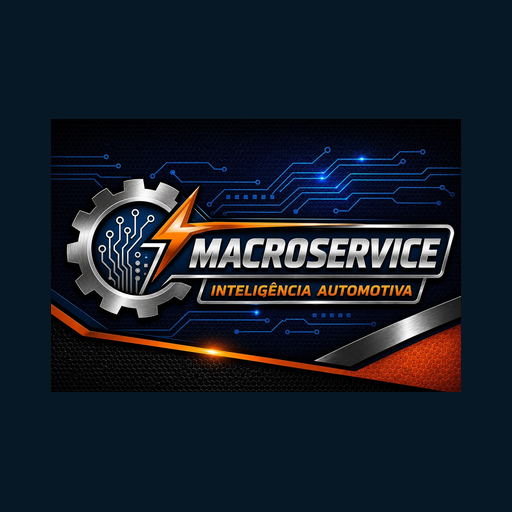
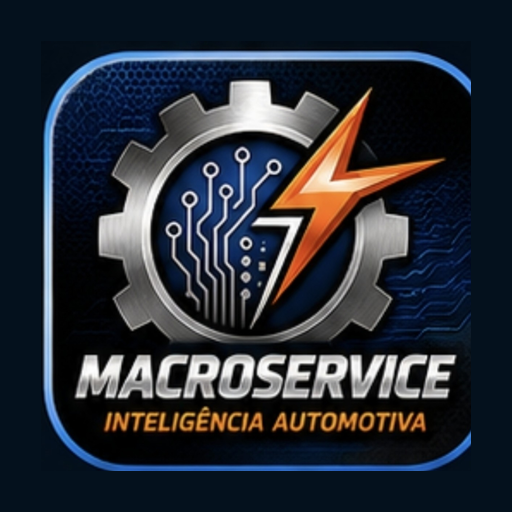
Add files via upload

diff --git a/app.js b/app.js
@@ -27,6 +27,10 @@ const SLOTS = ["08:00","09:00","10:00","11:00","13:00","14:00","15:00","16:00"];
 function getSession(){ return store.get("macro_session", null); }
 function setSession(s){ store.set("macro_session", s); }
 function clearSession(){ localStorage.removeItem("macro_session"); }
+function getRememberedAuth(){ return store.get("macro_auth_remember", null); }
+function setRememberedAuth(v){ store.set("macro_auth_remember", v); }
+function clearRememberedAuth(){ localStorage.removeItem("macro_auth_remember"); }
+function setAuthScreenMode(active){ document.body.classList.toggle("auth-screen", !!active); }
 function showOnly(el){ [authView,homeView,moduleView].forEach(v=>v.classList.remove("active")); el.classList.add("active"); }
 
 function customServices(){ return store.get("macro_servicos_custom", []); }
@@ -45,18 +49,107 @@ function migrateLegacyData(){
   store.set("macro_catalog_migrated",true);
 }
 
-function renderAuth(tab="cliente"){
+function authFieldIcon(kind){
+  const icons={
+    user:`<svg viewBox="0 0 24 24" aria-hidden="true"><path d="M12 12a4 4 0 1 0 0-8 4 4 0 0 0 0 8Zm-7 8a7 7 0 0 1 14 0"/></svg>`,
+    lock:`<svg viewBox="0 0 24 24" aria-hidden="true"><rect x="5" y="10" width="14" height="10" rx="2"/><path d="M8 10V7a4 4 0 0 1 8 0v3"/></svg>`,
+    phone:`<svg viewBox="0 0 24 24" aria-hidden="true"><path d="M7 3h3l1 5-2 1a15 15 0 0 0 6 6l1-2 5 1v3c0 2-2 4-4 4C9 20 4 15 3 7c0-2 2-4 4-4Z"/></svg>`,
+    mail:`<svg viewBox="0 0 24 24" aria-hidden="true"><rect x="3" y="5" width="18" height="14" rx="2"/><path d="m4 7 8 6 8-6"/></svg>`
+  };
+  return icons[kind]||icons.user;
+}
+function openAuthModal(title, bodyHtml, submitLabel="Fechar", onSubmit=null){
+  document.querySelector("#authModal")?.remove();
+  const wrap=document.createElement("div");
+  wrap.id="authModal";
+  wrap.className="auth-modal-backdrop";
+  wrap.innerHTML=`<div class="auth-modal" role="dialog" aria-modal="true" aria-label="${esc(title)}"><button class="auth-modal-close" id="authModalClose" aria-label="Fechar">×</button><h3>${esc(title)}</h3><div class="auth-modal-body">${bodyHtml}</div><div class="auth-modal-actions"><button class="primary-btn" id="authModalSubmit">${esc(submitLabel)}</button></div></div>`;
+  document.body.appendChild(wrap);
+  const close=()=>wrap.remove();
+  $("#authModalClose").onclick=close;
+  wrap.addEventListener("click",e=>{if(e.target===wrap)close();});
+  $("#authModalSubmit").onclick=()=>{if(onSubmit)onSubmit(close);else close();};
+  return wrap;
+}
+function renderAuth(tab="cliente", mode="login"){
+  setAuthScreenMode(true);
   showOnly(authView);
-  authView.innerHTML=`<div class="auth-card"><h2>Bem-vindo à Macroservice</h2><p>Entre ou faça seu cadastro para continuar.</p>
-  <div class="auth-tabs"><button class="auth-tab ${tab==="cliente"?"active":""}" id="tabCliente">Cliente</button><button class="auth-tab ${tab==="admin"?"active":""}" id="tabAdmin">Administrador</button></div>
-  ${tab==="cliente"?`<div class="form-grid"><label>Nome completo<input id="cadNome" placeholder="Seu nome"></label><label>Telefone / WhatsApp<input id="cadTelefone" type="tel" placeholder="(93) 99999-9999"></label><label>Senha<input id="cadSenha" type="password" placeholder="Crie uma senha"></label><button class="primary-btn" id="cadCliente">Cadastrar e entrar</button><div class="notice">Nesta versão os dados ficam salvos neste aparelho. Para sincronização entre celulares será necessário banco online.</div></div>`:
-  `<div class="form-grid"><label>Usuário administrador<input id="adminUser" value="admin" autocomplete="username"></label><label>Senha<input id="adminPass" type="password" placeholder="Senha do administrador" autocomplete="current-password"></label><button class="primary-btn" id="entrarAdmin">Entrar como administrador</button><div class="notice">Demonstração: usuário <b>admin</b> e senha <b>macroservice2026</b>. Para uso real, mover o login para autenticação online segura.</div></div>`}</div>`;
-  $("#tabCliente").onclick=()=>renderAuth("cliente"); $("#tabAdmin").onclick=()=>renderAuth("admin");
-  if(tab==="cliente") $("#cadCliente").onclick=()=>{const nome=$("#cadNome").value.trim(),telefone=$("#cadTelefone").value.trim(),senha=$("#cadSenha").value.trim();if(!nome||!telefone||!senha)return alert("Preencha nome, telefone e senha.");const clientes=store.get("macro_clientes");let cli=clientes.find(c=>c.telefone===telefone);if(!cli){cli={id:uid(),nome,telefone,senha};clientes.push(cli);store.set("macro_clientes",clientes);}setSession({role:"cliente",id:cli.id,nome:cli.nome,telefone:cli.telefone});renderHome();};
-  else $("#entrarAdmin").onclick=()=>{if($("#adminUser").value.trim()==="admin"&&$("#adminPass").value==="macroservice2026"){setSession({role:"admin",nome:"Administrador"});renderHome();}else alert("Usuário ou senha incorretos.");};
+  const remembered=getRememberedAuth()||{};
+  const rememberedCliente=remembered.role==="cliente"?remembered:{};
+  const rememberedAdmin=remembered.role==="admin"?remembered:{};
+  const footer=`<div class="auth-brand-footer"><strong>MACROSERVICE</strong><span>Inteligência Automotiva</span><small>Juruti - PA • V5.3</small></div>`;
+  const clientLogin=`<div class="form-grid auth-form">
+    <label>Telefone ou e-mail<div class="input-icon-wrap"><span class="field-icon">${authFieldIcon("user")}</span><input id="clienteLoginId" placeholder="Usuário" value="${esc(rememberedCliente.loginId||"")}" autocomplete="username"></div></label>
+    <label>Senha<div class="input-icon-wrap"><span class="field-icon">${authFieldIcon("lock")}</span><input id="clienteSenha" type="password" placeholder="Senha" autocomplete="current-password"><button type="button" class="password-toggle" id="toggleClienteSenha" aria-label="Visualizar senha">👁</button></div></label>
+    <div class="remember-forgot"><label class="remember-line"><input id="lembrarCliente" type="checkbox" ${rememberedCliente.loginId?"checked":""}> <span>Lembrar de mim</span></label><button class="text-link" id="recuperarSenhaBtn">Esqueci minha senha</button></div>
+    <button class="primary-btn login-main-btn" id="entrarCliente">Entrar</button>
+    <div class="auth-divider"><span>ou</span></div>
+    <button class="google-btn" id="googleLoginBtn"><span class="google-g">G</span><span>Continuar com Google</span></button>
+    <button class="create-account-btn" id="irCadastro">Criar uma conta</button>
+    <div class="login-status" id="loginStatus" aria-live="polite"></div>
+  </div>`;
+  const clientSignup=`<div class="form-grid auth-form">
+    <label>Nome completo<div class="input-icon-wrap"><span class="field-icon">${authFieldIcon("user")}</span><input id="cadNome" placeholder="Nome completo" autocomplete="name"></div></label>
+    <label>Telefone / WhatsApp<div class="input-icon-wrap"><span class="field-icon">${authFieldIcon("phone")}</span><input id="cadTelefone" type="tel" placeholder="(93) 99999-9999" autocomplete="tel"></div></label>
+    <label>E-mail<div class="input-icon-wrap"><span class="field-icon">${authFieldIcon("mail")}</span><input id="cadEmail" type="email" placeholder="email@exemplo.com" autocomplete="email"></div></label>
+    <label>Senha<div class="input-icon-wrap"><span class="field-icon">${authFieldIcon("lock")}</span><input id="cadSenha" type="password" placeholder="Crie uma senha" autocomplete="new-password"><button type="button" class="password-toggle" id="toggleCadSenha" aria-label="Visualizar senha">👁</button></div></label>
+    <label>Confirmar senha<div class="input-icon-wrap"><span class="field-icon">${authFieldIcon("lock")}</span><input id="cadSenha2" type="password" placeholder="Confirme a senha" autocomplete="new-password"><button type="button" class="password-toggle" id="toggleCadSenha2" aria-label="Visualizar senha">👁</button></div></label>
+    <button class="primary-btn login-main-btn" id="cadCliente">Cadastrar e entrar</button>
+    <button class="create-account-btn" id="irLogin">Já tenho uma conta</button>
+  </div>`;
+  const adminLogin=`<div class="form-grid auth-form">
+    <label>Usuário administrador<div class="input-icon-wrap"><span class="field-icon">${authFieldIcon("user")}</span><input id="adminUser" value="${esc(rememberedAdmin.user||"admin")}" placeholder="Usuário" autocomplete="username"></div></label>
+    <label>Senha<div class="input-icon-wrap"><span class="field-icon">${authFieldIcon("lock")}</span><input id="adminPass" type="password" placeholder="Senha" autocomplete="current-password"><button type="button" class="password-toggle" id="toggleAdminSenha" aria-label="Visualizar senha">👁</button></div></label>
+    <div class="remember-forgot"><label class="remember-line"><input id="lembrarAdmin" type="checkbox" ${rememberedAdmin.user?"checked":""}> <span>Lembrar de mim</span></label><button class="text-link" id="recuperarAdminBtn">Ajuda de acesso</button></div>
+    <button class="primary-btn login-main-btn" id="entrarAdmin">Entrar</button>
+    <div class="login-status" id="loginStatus" aria-live="polite"></div>
+  </div>`;
+  authView.innerHTML=`<div class="auth-card login-shell">
+    <div class="login-hero"><img src="icon-512.png" alt="Macroservice App" class="login-hero-logo"><h2>${mode==="cadastro"?"Criar conta":"Login"}</h2><p>Seu assistente de oficina</p></div>
+    <div class="auth-tabs"><button class="auth-tab ${tab==="cliente"?"active":""}" id="tabCliente">Cliente</button><button class="auth-tab ${tab==="admin"?"active":""}" id="tabAdmin">Administrador</button></div>
+    ${tab==="cliente"?(mode==="cadastro"?clientSignup:clientLogin):adminLogin}
+    ${footer}
+  </div>`;
+
+  const status=(msg,error=false)=>{const el=$("#loginStatus");if(!el)return;el.textContent=msg||"";el.classList.toggle("error",!!error);};
+  const bindToggle=(btnSel,inputSel)=>{const btn=$(btnSel),input=$(inputSel);if(!btn||!input)return;btn.onclick=()=>{const show=input.type==="password";input.type=show?"text":"password";btn.textContent=show?"🙈":"👁";btn.setAttribute("aria-label",show?"Ocultar senha":"Visualizar senha");};};
+  const findCliente=(loginId)=>{const id=loginId.trim().toLowerCase();return store.get("macro_clientes").find(c=>String(c.telefone||"").trim().toLowerCase()===id||String(c.email||"").trim().toLowerCase()===id);};
+  const rememberChoice=(role,payload,checked)=>{if(checked)setRememberedAuth({role,...payload});else if(getRememberedAuth()?.role===role)clearRememberedAuth();};
+  const loginCliente=()=>{const loginId=$("#clienteLoginId").value.trim(),senha=$("#clienteSenha").value;if(!loginId||!senha)return status("Informe usuário e senha.",true);const cli=findCliente(loginId);if(!cli||String(cli.senha||"")!==senha)return status("Usuário ou senha incorretos.",true);rememberChoice("cliente",{loginId},$("#lembrarCliente").checked);setSession({role:"cliente",id:cli.id,nome:cli.nome,telefone:cli.telefone||"",email:cli.email||"",provider:cli.provider||"local"});renderHome();};
+  const loginAdmin=()=>{const user=$("#adminUser").value.trim(),pass=$("#adminPass").value;if(user==="admin"&&pass==="macroservice2026"){rememberChoice("admin",{user},$("#lembrarAdmin").checked);setSession({role:"admin",nome:"Administrador"});renderHome();}else status("Usuário ou senha incorretos.",true);};
+
+  $("#tabCliente").onclick=()=>renderAuth("cliente","login");
+  $("#tabAdmin").onclick=()=>renderAuth("admin","login");
+
+  if(tab==="cliente"&&mode==="login"){
+    bindToggle("#toggleClienteSenha","#clienteSenha");
+    $("#entrarCliente").onclick=loginCliente;
+    $("#clienteLoginId").addEventListener("keydown",e=>{if(e.key==="Enter")$("#clienteSenha").focus();});
+    $("#clienteSenha").addEventListener("keydown",e=>{if(e.key==="Enter")loginCliente();});
+    $("#irCadastro").onclick=()=>renderAuth("cliente","cadastro");
+    $("#recuperarSenhaBtn").onclick=()=>{
+      const current=esc($("#clienteLoginId").value||"");
+      openAuthModal("Recuperar senha",`<div class="form-grid"><label>Telefone ou e-mail<input id="recLogin" value="${current}" placeholder="Digite seu cadastro"></label><label>Nova senha<input id="recSenha" type="password" placeholder="Nova senha"></label><label>Confirmar nova senha<input id="recSenha2" type="password" placeholder="Repita a nova senha"></label><div class="modal-msg" id="recMsg"></div></div>`,`Atualizar senha`,close=>{const id=$("#recLogin").value.trim(),s1=$("#recSenha").value,s2=$("#recSenha2").value,msg=$("#recMsg");if(!id||!s1||!s2){msg.textContent="Preencha todos os campos.";return;}if(s1!==s2){msg.textContent="As senhas não conferem.";return;}const clientes=store.get("macro_clientes"),cli=clientes.find(c=>String(c.telefone||"").trim().toLowerCase()===id.toLowerCase()||String(c.email||"").trim().toLowerCase()===id.toLowerCase());if(!cli){msg.textContent="Cadastro não encontrado neste aparelho.";return;}cli.senha=s1;store.set("macro_clientes",clientes);close();status("Senha atualizada. Você já pode entrar.");});
+    };
+    $("#googleLoginBtn").onclick=()=>openAuthModal("Entrar com Google",`<p>O botão já está preparado na interface da Macroservice.</p><p>Para o login Google ser real e seguro, precisamos conectar uma autenticação online (Firebase ou Supabase) e informar as credenciais do projeto.</p><p><b>Não vou simular uma conta Google localmente.</b></p>`,`Entendi`);
+  }
+
+  if(tab==="cliente"&&mode==="cadastro"){
+    bindToggle("#toggleCadSenha","#cadSenha");bindToggle("#toggleCadSenha2","#cadSenha2");
+    $("#irLogin").onclick=()=>renderAuth("cliente","login");
+    $("#cadCliente").onclick=()=>{const nome=$("#cadNome").value.trim(),telefone=$("#cadTelefone").value.trim(),email=$("#cadEmail").value.trim(),senha=$("#cadSenha").value,senha2=$("#cadSenha2").value;if(!nome||!telefone||!senha)return alert("Preencha nome, telefone e senha.");if(senha.length<4)return alert("A senha precisa ter pelo menos 4 caracteres.");if(senha!==senha2)return alert("As senhas não conferem.");const clientes=store.get("macro_clientes");if(clientes.some(c=>String(c.telefone||"").trim()===telefone||(email&&String(c.email||"").trim().toLowerCase()===email.toLowerCase())))return alert("Já existe um cadastro com este telefone ou e-mail.");const cli={id:uid(),nome,telefone,email,senha,provider:"local"};clientes.push(cli);store.set("macro_clientes",clientes);setSession({role:"cliente",id:cli.id,nome:cli.nome,telefone:cli.telefone,email:cli.email||"",provider:"local"});renderHome();};
+  }
+
+  if(tab==="admin"){
+    bindToggle("#toggleAdminSenha","#adminPass");
+    $("#entrarAdmin").onclick=loginAdmin;
+    $("#adminPass").addEventListener("keydown",e=>{if(e.key==="Enter")loginAdmin();});
+    $("#recuperarAdminBtn").onclick=()=>openAuthModal("Acesso do administrador",`<p>Enquanto o app estiver usando autenticação local, o acesso de demonstração é:</p><div class="credential-box"><span>Usuário</span><b>admin</b><span>Senha</span><b>macroservice2026</b></div><p>Quando conectarmos o banco online, essa senha fixa será removida.</p>`,`Fechar`);
+  }
 }
 
 function renderHome(){
+  setAuthScreenMode(false);
   const s=getSession(); if(!s)return renderAuth(); showOnly(homeView);
   const solicitacoes=store.get("macro_solicitacoes"), novas=solicitacoes.filter(x=>x.status==="pendente").length;
   const cardsAdmin=`<button class="menu-card" data-view="solicitacoes"><span class="menu-icon">🔔</span><strong>Serviços Solicitados</strong>${novas?`<span class="badge">${novas}</span>`:""}</button><button class="menu-card" data-view="agendamento"><span class="menu-icon">📅</span><strong>Agenda</strong></button><button class="menu-card" data-view="orcamento"><span class="menu-icon">📄</span><strong>Orçamento Rápido</strong></button><button class="menu-card" data-view="clientes"><span class="menu-icon">👥</span><strong>Clientes</strong></button><button class="menu-card" data-view="veiculos"><span class="menu-icon">🚗</span><strong>Veículos</strong></button><button class="menu-card" data-view="servicos"><span class="menu-icon">🛠</span><strong>Serviços</strong></button><button class="menu-card" data-view="pecas"><span class="menu-icon">⚙</span><strong>Peças</strong></button><button class="menu-card" data-view="historico"><span class="menu-icon">🕘</span><strong>Histórico</strong></button><button class="menu-card" data-view="relatorios"><span class="menu-icon">📊</span><strong>Relatórios</strong></button><button class="menu-card" data-view="configuracoes"><span class="menu-icon">⚙</span><strong>Configurações</strong></button>`;

diff --git a/styles.css b/styles.css
@@ -1,1 +1,36 @@
 *{box-sizing:border-box}html,body{margin:0;padding:0;background:#03101a;color:#f8fafc;font-family:Arial,Helvetica,sans-serif}body{min-height:100vh;background:radial-gradient(circle at top,#0d3551 0,#061827 44%,#02070c 100%)}button,input,select,textarea{font:inherit}.topbar{position:sticky;top:0;z-index:10;background:linear-gradient(135deg,#04111d,#0a2538);border-bottom:2px solid #0ea5e9;box-shadow:0 5px 24px rgba(0,0,0,.35)}.brand-area{max-width:560px;margin:auto;display:flex;align-items:center;gap:12px;padding:12px 14px}.brand-logo{width:62px;height:62px;object-fit:cover;border-radius:14px;border:1px solid #174a6a}.brand-text h1{margin:0;font-size:1.55rem;letter-spacing:.03em;color:#eef2f7;text-shadow:0 2px 4px #000}.brand-text p{margin:3px 0 0;color:#ff7a00;font-weight:800;font-size:.78rem;letter-spacing:.03em}.main-content{max-width:560px;margin:auto;padding:14px}.view{display:none}.view.active{display:block}.welcome{padding:12px 2px 6px}.welcome h2{margin:0 0 5px;font-size:1.5rem}.welcome p{margin:0;color:#9fb3c8}.dashboard-grid{display:grid;grid-template-columns:1fr 1fr;gap:12px;margin-top:14px}.menu-card{position:relative;min-height:112px;border:1px solid #21445f;border-radius:16px;background:linear-gradient(145deg,#102d43,#081a29);color:#fff;display:flex;flex-direction:column;align-items:center;justify-content:center;gap:10px;font-weight:800;box-shadow:0 8px 20px rgba(0,0,0,.28),inset 0 1px 0 rgba(255,255,255,.06);transition:.15s}.menu-card:active{transform:scale(.97);border-color:#ff7a00;background:linear-gradient(145deg,#163f5d,#0a2438)}.menu-icon{font-size:1.9rem}.badge{position:absolute;top:9px;right:10px;background:#ff6b00;color:white;border-radius:999px;min-width:24px;height:24px;padding:0 7px;display:grid;place-items:center;font-size:.75rem;border:2px solid #102d43}.module-header{display:flex;align-items:center;gap:10px;margin-bottom:12px}.back-btn{width:42px;height:42px;border-radius:50%;border:1px solid #2d4f67;background:#0b2233;color:#fff;font-size:2rem;line-height:1}.module-header h2{margin:0;font-size:1.35rem}.module-header p{margin:3px 0 0;color:#91a9bc;font-size:.85rem}.module-content,.auth-card{background:linear-gradient(145deg,#0b2233,#071723);border:1px solid #1c3e56;border-left:4px solid #ff7a00;border-radius:16px;padding:14px;box-shadow:0 6px 22px rgba(0,0,0,.28)}.auth-card{margin-top:18px}.auth-card h2{margin:0 0 6px}.auth-card p{color:#93a8ba;margin-top:0}.form-grid{display:grid;gap:10px}.form-grid label{font-weight:700;color:#dbe7f0;font-size:.9rem}.form-grid input,.form-grid select,.form-grid textarea{width:100%;border:1px solid #315470;background:#071827;color:white;border-radius:10px;padding:12px}.form-grid textarea{min-height:92px;resize:vertical}.primary-btn,.secondary-btn,.danger-btn{border:0;border-radius:10px;padding:12px 14px;font-weight:800}.primary-btn{background:linear-gradient(90deg,#ff6500,#ff8a00);color:white}.secondary-btn{background:#12334a;color:white;border:1px solid #2a5878}.danger-btn{background:#54171b;color:white}.section-list{display:grid;gap:10px;margin-top:14px}.list-card{background:#0d2a3e;border:1px solid #23465f;border-radius:12px;padding:12px}.list-card strong{display:block;margin-bottom:4px}.muted{color:#93a8ba}.split{display:flex;justify-content:space-between;gap:12px;align-items:center}.total-box{margin-top:14px;padding:14px;border-radius:12px;background:#081a29;border:1px solid #284d67}.total-box .total{font-size:1.55rem;font-weight:900;color:#ff8a00}.footer{max-width:560px;margin:0 auto;padding:22px 14px 28px;text-align:center;color:#8fa8bb}.footer strong{display:block;color:#e9eef2}.footer span,.footer small{display:block;margin-top:3px}.footer small{color:#ff7a00}.empty{padding:12px 0;color:#8fa8bb}.auth-tabs{display:grid;grid-template-columns:1fr 1fr;gap:8px;margin-bottom:12px}.auth-tab{padding:10px;border-radius:10px;border:1px solid #315470;background:#0b2233;color:#dbe7f0;font-weight:800}.auth-tab.active{background:#123f5e;border-color:#0ea5e9}.status{display:inline-block;padding:5px 8px;border-radius:999px;font-size:.72rem;font-weight:900}.status-pendente{background:#5b4300;color:#ffd977}.status-aceito{background:#0d4b2d;color:#92f2bc}.status-recusado{background:#54171b;color:#ffb0b0}.status-concluido{background:#153f63;color:#a9d8ff}.actions{display:flex;gap:8px;flex-wrap:wrap;margin-top:10px}.actions button{flex:1;min-width:110px}.slot-grid{display:grid;grid-template-columns:repeat(3,1fr);gap:8px}.slot{padding:10px 6px;border-radius:9px;border:1px solid #315470;background:#0b2233;color:white;font-weight:800}.slot.busy{opacity:.35;text-decoration:line-through}.slot.selected{background:#ff7a00;border-color:#ff9b46}.profile-strip{display:flex;justify-content:space-between;align-items:center;gap:10px;margin-bottom:10px}.profile-strip small{color:#91a9bc}.link-btn{background:transparent;border:0;color:#49bfff;font-weight:800;padding:6px}.notice{padding:10px 12px;border-radius:10px;background:#0a2131;border:1px solid #244c68;color:#b8c9d6;font-size:.86rem}@media(min-width:700px){.dashboard-grid{grid-template-columns:repeat(3,1fr)}}
+/* V5.2 auth / icon update */
+.auth-screen .topbar,.auth-screen .footer{display:none}
+.auth-screen .main-content{max-width:460px;min-height:100vh;display:flex;align-items:center;justify-content:center;padding:18px 16px}
+.auth-screen #authView.active{display:block;width:100%}
+.login-shell{border-left:1px solid #1c3e56!important;background:linear-gradient(180deg,rgba(7,23,35,.97),rgba(4,16,27,.98))!important;padding:18px 16px 16px;border-radius:24px;box-shadow:0 18px 40px rgba(0,0,0,.45)}
+.login-hero{text-align:center;margin-bottom:14px}.login-hero-logo{width:150px;height:150px;object-fit:cover;border-radius:28px;border:2px solid rgba(78,171,255,.6);box-shadow:0 10px 28px rgba(0,0,0,.45)}.login-hero h2{margin:12px 0 6px;font-size:2rem;color:#fff}.login-hero p{margin:0;color:#56b9ff;font-weight:700;font-size:.95rem}
+.auth-mode-switch{display:grid;grid-template-columns:1fr 1fr;gap:8px;margin:2px 0 12px}.mini-tab{padding:10px;border-radius:10px;border:1px solid #315470;background:#091b29;color:#dbe7f0;font-weight:800}.mini-tab.active{background:#0f3550;border-color:#56b9ff}
+.auth-form{gap:12px}.auth-form label{display:grid;gap:7px}.password-wrap{position:relative}.password-wrap input{padding-right:52px!important}.password-toggle{position:absolute;right:7px;top:50%;transform:translateY(-50%);width:38px;height:38px;border-radius:10px;border:1px solid #315470;background:#0b2233;color:#dbe7f0}
+.remember-line{display:flex!important;align-items:center;gap:10px;font-size:1rem!important;color:#eef2f7!important}.remember-line input{width:20px!important;height:20px;margin:0}
+.google-btn{border:1px solid #315470;border-radius:12px;padding:12px 14px;font-weight:800;background:#0d2233;color:#fff;display:flex;align-items:center;justify-content:center;gap:10px}.google-mark{display:inline-grid;place-items:center;width:24px;height:24px;border-radius:50%;background:#fff;color:#ea4335;font-weight:900}
+.auth-links{display:flex;justify-content:center;gap:12px;flex-wrap:wrap}.text-link{border:0;background:transparent;color:#56b9ff;font-weight:800;padding:4px 6px}
+@media (max-width:480px){.login-hero-logo{width:132px;height:132px}.login-hero h2{font-size:1.8rem}}
+
+/* V5.3 login refinado */
+.auth-screen{background:
+  radial-gradient(circle at 50% 0%,rgba(16,84,130,.42),transparent 38%),
+  linear-gradient(180deg,#061725 0%,#020a11 100%)}
+.auth-screen .main-content{max-width:430px;padding:14px 14px 20px;align-items:flex-start}
+.login-shell{width:100%;margin:0!important;padding:18px 16px 16px!important;border:1px solid rgba(54,106,143,.7)!important;border-left:1px solid rgba(54,106,143,.7)!important;border-radius:28px!important;background:linear-gradient(180deg,rgba(6,22,34,.98),rgba(2,12,20,.99))!important;box-shadow:0 22px 60px rgba(0,0,0,.5),inset 0 1px 0 rgba(255,255,255,.03)!important;overflow:hidden}
+.login-hero{margin:0 0 18px}.login-hero-logo{width:158px;height:158px;border-radius:30px;border:2px solid #369ee8;box-shadow:0 0 0 5px rgba(34,143,219,.08),0 16px 34px rgba(0,0,0,.45)}
+.login-hero h2{font-size:1.9rem;margin:14px 0 3px;letter-spacing:.01em}.login-hero p{color:#6bc1ff;font-size:.93rem;font-weight:700}
+.auth-tabs{margin:0 0 14px;padding:4px;border:1px solid #173d59;border-radius:14px;background:#061827;gap:4px}.auth-tab{border:0;border-radius:10px;background:transparent;color:#8faec4;padding:10px 8px}.auth-tab.active{background:#123752;color:#fff;box-shadow:inset 0 0 0 1px #2d80b9}
+.auth-form{gap:13px}.auth-form>label{font-size:.84rem;color:#aec5d6;font-weight:700;gap:7px}
+.input-icon-wrap{position:relative}.input-icon-wrap input{height:54px;padding:0 50px 0 48px!important;border-radius:14px!important;border:1px solid #2a4b62!important;background:linear-gradient(180deg,#132c3e,#0e2332)!important;box-shadow:inset 0 1px 0 rgba(255,255,255,.025);font-size:1rem}.input-icon-wrap input:focus{outline:none;border-color:#2fa8ff!important;box-shadow:0 0 0 3px rgba(47,168,255,.12)}
+.field-icon{position:absolute;left:15px;top:50%;transform:translateY(-50%);width:21px;height:21px;color:#d7e7f2;z-index:1;display:grid;place-items:center}.field-icon svg{width:21px;height:21px;fill:none;stroke:currentColor;stroke-width:1.9;stroke-linecap:round;stroke-linejoin:round}
+.password-toggle{right:8px;width:38px;height:38px;border:0;background:transparent;color:#cfe0ea;font-size:1.05rem}
+.remember-forgot{display:flex;align-items:center;justify-content:space-between;gap:10px}.remember-line{font-size:.88rem!important;color:#e9f1f5!important;gap:8px}.remember-line input{accent-color:#ff7a00}.remember-line span{white-space:nowrap}.text-link{color:#57baff;font-size:.88rem;padding:5px 0}
+.login-main-btn{height:54px;border-radius:14px!important;font-size:1.05rem;letter-spacing:.01em;box-shadow:0 8px 20px rgba(255,111,0,.18)}
+.auth-divider{display:flex;align-items:center;gap:10px;color:#6d8799;font-size:.8rem}.auth-divider::before,.auth-divider::after{content:"";height:1px;flex:1;background:#17364b}.auth-divider span{padding:0 4px}
+.google-btn{height:52px;border-radius:14px;background:#fff;color:#16212a;border:1px solid #d6e0e6;box-shadow:0 6px 18px rgba(0,0,0,.18);font-weight:800}.google-btn:active{transform:scale(.99)}.google-g{font-family:Arial,sans-serif;font-weight:900;font-size:1.15rem;background:conic-gradient(from -45deg,#4285f4 0 25%,#34a853 0 50%,#fbbc05 0 75%,#ea4335 0);-webkit-background-clip:text;background-clip:text;color:transparent}
+.create-account-btn{border:0;background:transparent;color:#58baff;font-weight:800;padding:7px}
+.login-status{min-height:18px;text-align:center;font-size:.86rem;color:#82e0a9}.login-status.error{color:#ff9c9c}
+.auth-brand-footer{margin-top:17px;padding-top:15px;border-top:1px solid #15334a;text-align:center}.auth-brand-footer strong{display:block;font-size:1.18rem;letter-spacing:.05em;color:#f1f5f7}.auth-brand-footer span{display:block;margin-top:4px;font-weight:700;color:#b3c7d5}.auth-brand-footer small{display:block;margin-top:5px;color:#6abfff}
+.auth-modal-backdrop{position:fixed;inset:0;z-index:1000;display:grid;place-items:center;padding:18px;background:rgba(0,5,9,.78);backdrop-filter:blur(6px)}.auth-modal{position:relative;width:min(100%,390px);border-radius:20px;border:1px solid #28506b;background:linear-gradient(180deg,#0b2435,#06151f);padding:20px;box-shadow:0 24px 60px rgba(0,0,0,.55)}.auth-modal h3{margin:0 36px 14px 0;font-size:1.3rem}.auth-modal p{color:#b7cad7;line-height:1.45}.auth-modal-close{position:absolute;right:12px;top:10px;border:0;background:transparent;color:#b8d4e6;font-size:1.8rem}.auth-modal-actions{margin-top:16px}.auth-modal-actions .primary-btn{width:100%}.auth-modal .form-grid input{background:#071827}.modal-msg{min-height:18px;color:#ff9c9c;font-size:.86rem}.credential-box{display:grid;grid-template-columns:1fr 1fr;gap:7px 10px;padding:12px;border:1px solid #244963;border-radius:12px;background:#071827}.credential-box span{color:#8faabc}.credential-box b{color:#fff;text-align:right}
+@media(max-width:390px){.login-shell{padding:15px 13px!important;border-radius:22px!important}.login-hero-logo{width:138px;height:138px}.login-hero h2{font-size:1.7rem}.remember-forgot{align-items:flex-start;flex-direction:column;gap:3px}.text-link{align-self:flex-start}.input-icon-wrap input{height:50px}}

diff --git a/sw.js b/sw.js
@@ -1,4 +1,4 @@
-const CACHE_NAME="macroservice-v5.1";
+const CACHE_NAME="macroservice-v5.3";
 const ASSETS=["./","./index.html","./styles.css","./catalog.js","./app.js","./logo.png","./icon-192.png","./icon-512.png","./icon-maskable-512.png","./manifest.webmanifest"];
 self.addEventListener("install",event=>{event.waitUntil(caches.open(CACHE_NAME).then(cache=>cache.addAll(ASSETS)));self.skipWaiting();});
 self.addEventListener("activate",event=>{event.waitUntil(caches.keys().then(keys=>Promise.all(keys.filter(k=>k!==CACHE_NAME).map(k=>caches.delete(k)))));self.clients.claim();});

diff --git a/README.md b/README.md
@@ -1,4 +1,4 @@
-# Macroservice App V5.1
+# Macroservice App V5.3
 
 Atualização funcional mantendo a interface azul/laranja da revisão anterior.
 
@@ -20,3 +20,24 @@ Atualização funcional mantendo a interface azul/laranja da revisão anterior.
 Os dados continuam no `localStorage` deste aparelho. Para clientes em celulares diferentes enviarem solicitações ao administrador em tempo real, será necessário conectar autenticação e banco online (ex.: Supabase/Firebase).
 
 A biblioteca de peças é genérica. A compatibilidade exata deve ser confirmada pelo chassi/VIN, catálogo do fabricante ou código OEM.
+
+
+## Novidades V5.2
+- Ícone do app atualizado com base no novo modelo enviado.
+- Tela de login redesenhada com visual mais próximo do mockup enviado.
+- Campo de senha com opção de visualizar/ocultar.
+- Recuperação local de senha para clientes cadastrados no aparelho.
+- Botão “Entrar com Google” em modo local/demonstração, pronto para futura integração real.
+- Opção “Lembrar de mim” para cliente e administrador.
+
+
+## Novidades V5.3
+- Tela de login refinada seguindo o modelo visual enviado pelo usuário.
+- Campos de usuário, telefone, e-mail e senha com ícones integrados.
+- Botão de visualizar/ocultar senha preservado e melhor posicionado.
+- Recuperação de senha em janela própria, sem prompts soltos do navegador.
+- Login com tecla Enter e mensagens de erro dentro da tela.
+- Opção “Lembrar de mim” reorganizada junto ao acesso de recuperação.
+- Botão Google redesenhado; não simula autenticação Google local. A conexão real exige Firebase/Supabase e credenciais.
+- Rodapé interno da tela de login com MACROSERVICE, Inteligência Automotiva, Juruti - PA e versão.
+- Melhor adaptação a telas pequenas.
